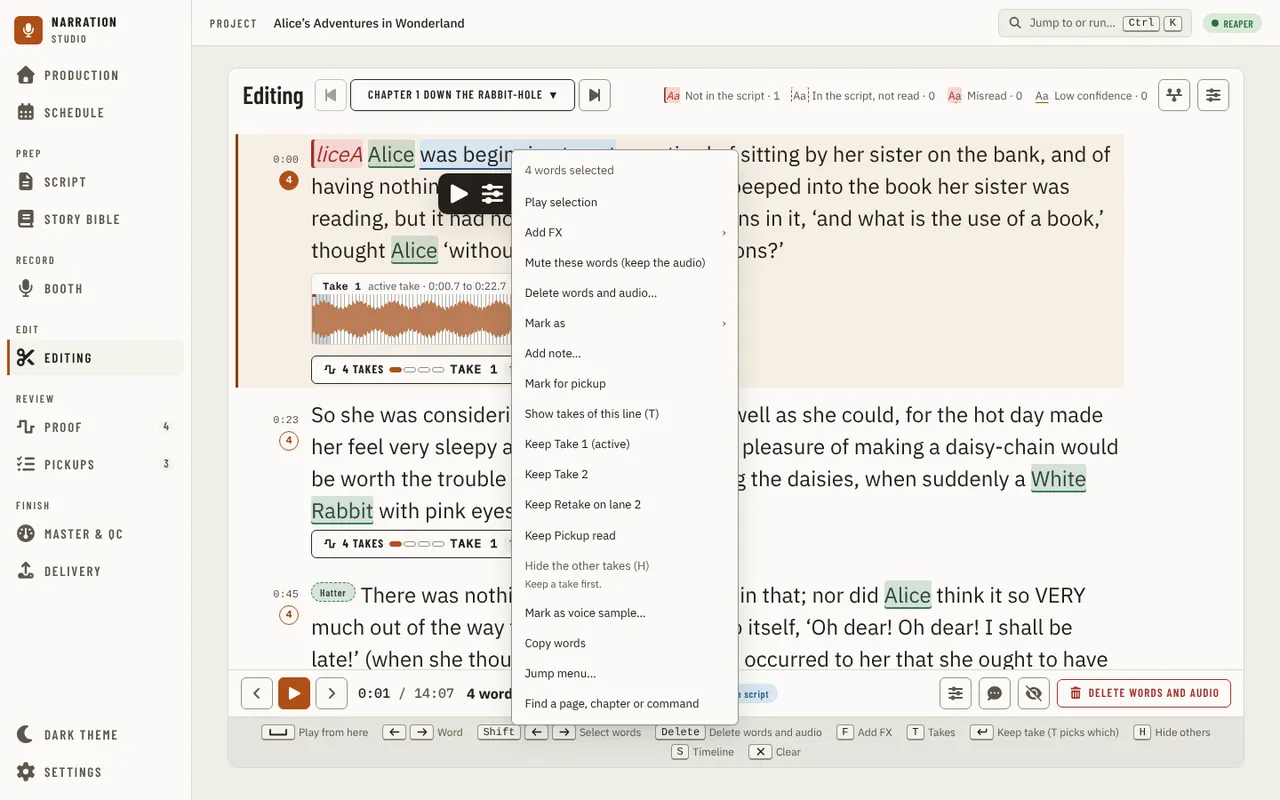
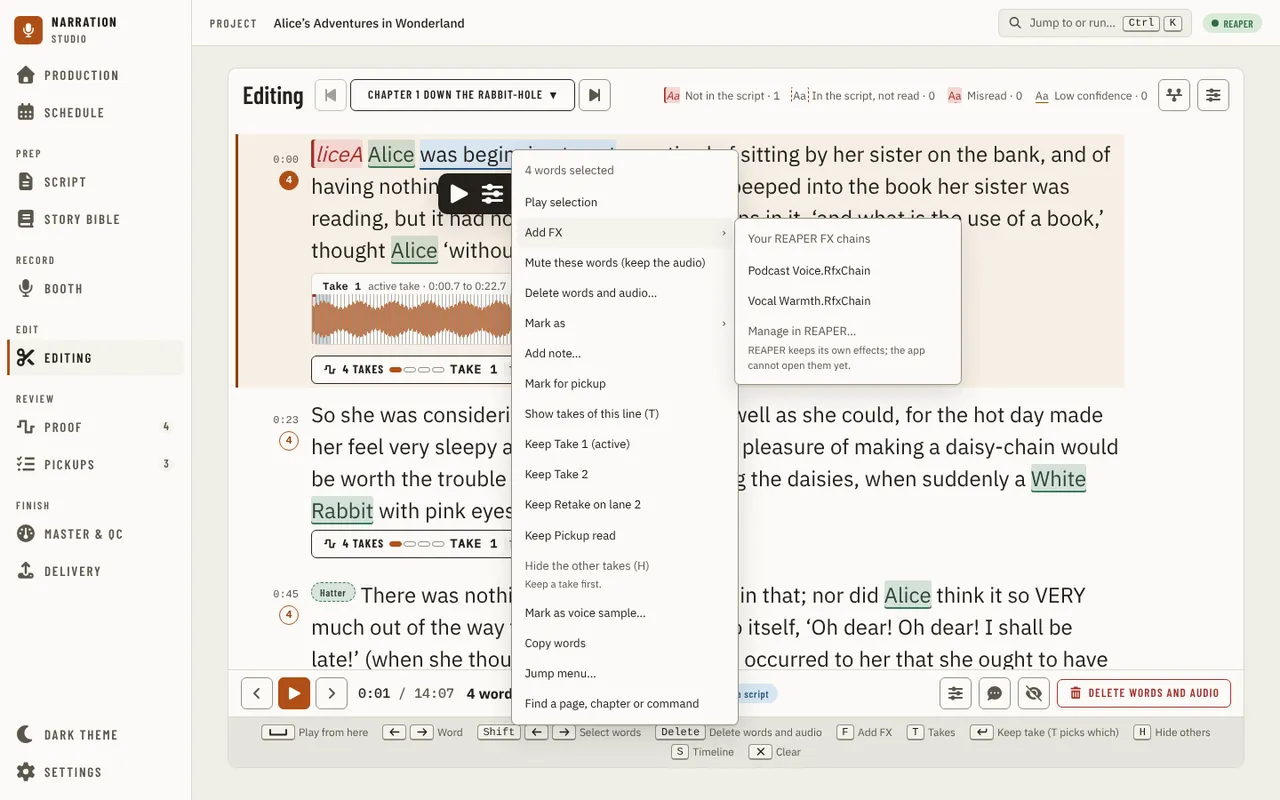
test(ui): show the Add FX submenu open in the guide and add the effect inspector state (#2128)

Changed region(s): [[0.5625, 0.25, 0.75, 0.5]]

diff --git a/apps/ui/tests/visual/drivers/editing.ts b/apps/ui/tests/visual/drivers/editing.ts
@@ -64,10 +64,27 @@ export const editingDrivers: Record<string, Driver> = {
     await selectWords(page);
     await page.locator('[data-k="p-1:2"]').click({ button: 'right' });
     await page.getByRole('menuitem', { name: 'Add FX' }).click();
-    await page
-      .getByRole('menuitem', { name: /RfxChain$/ })
-      .first()
-      .waitFor();
+    const chain = page.getByRole('menuitem', { name: /RfxChain$/ }).first();
+    await chain.waitFor();
+    // The submenu fades in: wait until it is fully drawn before the page is captured.
+    await chain.evaluate(async (el) => {
+      const popup = el.closest('[role="menu"]');
+      await Promise.all(popup?.getAnimations().map((a) => a.finished) ?? []);
+    });
+  },
+  'drawer-effects-inspector': async (page) => {
+    // Two effects on different words, so the inspector has a neighbour either way; the first is picked.
+    await openEditing(page, EDITS);
+    await addEffect(page, 'p-1:1', 'p-1:4');
+    await addEffect(page, 'p-2:0', 'p-2:2');
+    await page.getByRole('button', { name: 'Clean up and effects' }).click();
+    await page.locator('#drawer').waitFor();
+    await page.getByRole('tab', { name: /^Effects/ }).click();
+    await page.getByRole('button', { name: 'Next effect' }).waitFor();
+    // The two "Added …" toasts cover the panel; the inspector is scrolled up under its header.
+    const dismiss = page.getByRole('button', { name: 'Dismiss message' });
+    while (await dismiss.count()) await dismiss.first().click();
+    await page.getByRole('region', { name: 'Effect', exact: true }).evaluate((el) => el.scrollIntoView({ block: 'start' }));
   },
   'fx-dialog': async (page) => {
     await openEditing(page, EDITS);
@@ -253,6 +270,20 @@ async function openEditing(page: Page, query: string): Promise<void> {
 }
 
 /** Selects the second to the fifth word of the first line: a click, then a Shift+click. */
+/** Selects the words from `from` to `to` and puts the first listed chain on them through the question. */
+async function addEffect(page: Page, from: string, to: string): Promise<void> {
+  await page.locator(`[data-k="${from}"]`).click();
+  await page.locator(`[data-k="${to}"]`).click({ modifiers: ['Shift'] });
+  await bar(page).getByRole('button', { name: 'Add FX' }).click();
+  await page
+    .getByRole('menuitem', { name: /RfxChain$/ })
+    .first()
+    .click();
+  const question = page.getByRole('dialog', { name: /^Add FX to / });
+  await question.getByRole('button', { name: /^(Split and add effect|Add anyway)$/ }).click();
+  await question.waitFor({ state: 'hidden' });
+}
+
 async function selectWords(page: Page): Promise<void> {
   await page.locator('[data-k="p-1:1"]').click();
   await page.locator('[data-k="p-1:4"]').click({ modifiers: ['Shift'] });

diff --git a/apps/ui/src/components/editing/range/fx/FxDialog.stories.tsx b/apps/ui/src/components/editing/range/fx/FxDialog.stories.tsx
@@ -27,7 +27,17 @@ const list = {
 };
 
 /** The question as the overlay draws it: the Dialog primitive with the dialog's own body and buttons. */
-function Question({ plan, over = null }: { plan: Acting; over?: string | null }) {
+function Question({
+  plan,
+  over = null,
+  compareReason = '',
+  onCompare = fn(),
+}: {
+  plan: Acting;
+  over?: string | null;
+  compareReason?: string;
+  onCompare?: () => void;
+}) {
   return (
     <Dialog dismissOnOutsidePress={false} title={fxTitle(2)} onClose={fn()} actions={null}>
       <FxDialog
@@ -40,14 +50,16 @@ function Question({ plan, over = null }: { plan: Acting; over?: string | null })
         locator={locator}
         snap={snap}
         overOf={() => (over ? { overlaps: [], cap: over, text: over } : null)}
-        compareReason={() => ''}
-        onCompare={fn()}
+        compareReason={() => compareReason}
+        onCompare={onCompare}
         onCancel={fn()}
         onConfirm={fn()}
       />
     </Dialog>
   );
 }
+
+const abPressed = fn();
 
 const meta = { title: 'Editing/FxDialog', parameters: { layout: 'fullscreen' } } satisfies Meta;
 export default meta;
@@ -63,6 +75,29 @@ export const Preview: Story = {
     await expect(within(dialog).getByText(/one undo step in REAPER/)).toBeTruthy();
     await userEvent.selectOptions(within(dialog).getByRole('combobox', { name: 'Effect' }), 'Vocal Chain/Warmth.RfxChain');
     await expect(within(dialog).getByText(/Piece 2 · Vocal Chain\/Warmth\.RfxChain/)).toBeTruthy();
+  },
+};
+
+// A/B hears the words without and with the chain once the question has its snapped ends, and asks the DAW when pressed.
+export const AbOn: Story = {
+  render: () => <Question plan={{ kind: 'daw', dawName: 'REAPER' }} onCompare={abPressed} />,
+  play: async () => {
+    const dialog = await screen.findByRole('dialog', { name: 'Add FX to 2 words?' });
+    const ab = within(dialog).getByRole('button', { name: /A\/B/ });
+    await waitFor(() => expect(ab).toBeEnabled());
+    await userEvent.click(ab);
+    await expect(abPressed).toHaveBeenCalled();
+  },
+};
+
+// A chain the DAW cannot compare yet: A/B is off and the reason sits beside it, read as its description.
+export const AbOff: Story = {
+  render: () => <Question plan={{ kind: 'daw', dawName: 'REAPER' }} compareReason="Add the effect first, then compare it on the Effects tab." />,
+  play: async () => {
+    const dialog = await screen.findByRole('dialog', { name: 'Add FX to 2 words?' });
+    const ab = within(dialog).getByRole('button', { name: /A\/B/ });
+    await expect(ab).toBeDisabled();
+    await expect(ab).toHaveAccessibleDescription('Add the effect first, then compare it on the Effects tab.');
   },
 };
 

diff --git a/apps/ui/src/components/editing/effects/Effects.stories.tsx b/apps/ui/src/components/editing/effects/Effects.stories.tsx
@@ -85,6 +85,15 @@ export const InspectorStepping: Story = {
     await expect(canvas.getByRole('button', { name: 'Show in REAPER' })).toBeTruthy();
   },
 };
+// On the last effect Next is off and says so; Previous works.
+export const InspectorLast: Story = {
+  render: () => inspector('REAPER', 420, { at: MANY.length - 1, of: MANY.length, to: fn() }),
+  play: async ({ canvasElement }) => {
+    const canvas = within(canvasElement);
+    await expect(canvas.getByRole('button', { name: 'Next effect' })).toHaveAttribute('aria-disabled', 'true');
+    await expect(canvas.getByRole('button', { name: 'Previous effect' })).not.toHaveAttribute('aria-disabled');
+  },
+};
 // The DAW lists the effect's settings: a slider for the continuous one, a number field for the stepped one; Bypass, Preview and Compare work.
 const withSettings = (bypassed: boolean, width = 420) => {
   const setup = withFxRange(DAW_SETUPS.reaper, 'native');

diff --git a/apps/ui/tests/visual/catalog/editing.ts b/apps/ui/tests/visual/catalog/editing.ts
@@ -34,6 +34,13 @@ export const editingStates: StateEntry[] = [
     state: 'word-menu-fx',
     description: 'Editing, right-click on four selected words with Add FX open - the word menu with its submenu of the DAW’s FX chains',
     ...POPUP_ANCHORED_AT_FIRST_WIDTH,
+    // The pointer rests on the Add FX row, which is what holds its submenu open: moved away, the submenu closes before the shot.
+    pointer: 'keep',
+  },
+  {
+    page: 'editing',
+    state: 'drawer-effects-inspector',
+    description: 'Editing, the Effects tab with two effects on words - the inspector with Previous and Next effect and Show in the DAW',
   },
   {
     page: 'editing',

diff --git a/docs/guides/using-the-app/editing.md b/docs/guides/using-the-app/editing.md
@@ -214,6 +214,8 @@ timeline button (S) shows and hides; on a narrower window it is a tab of the dra
 
 ![Editing - the Effects tab with a DAW that lists its chains: each has a Favourite button, and the favourites are listed first](../../images/ui/editing-drawer-effects-chains.webp)
 
+![Editing - the Effects tab with two effects on words: the inspector with its Previous and Next arrows and Show in the DAW](../../images/ui/editing-drawer-effects-inspector.webp)
+
 ![Editing - the Timeline strip under the text: the waveform and takes of the line the cursor is on](../../images/ui/editing-drawer-timeline.webp)
 
 ## When the DAW is not connected
